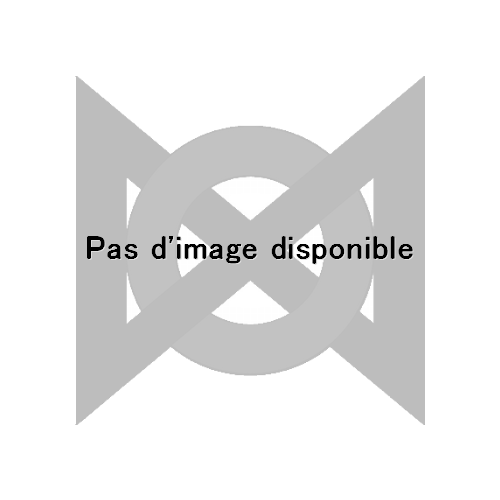
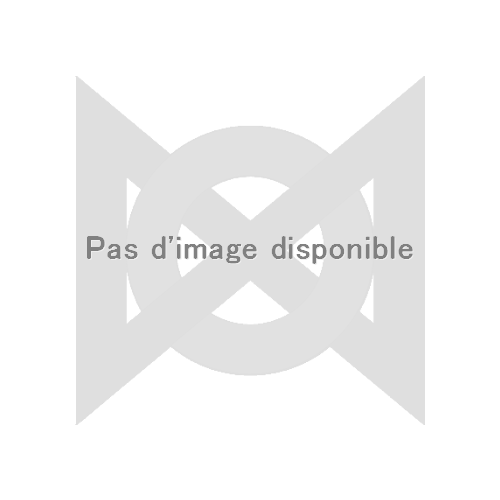
Small improvements in references

diff --git a/os_data/os_productions.js b/os_data/os_productions.js
@@ -9,7 +9,7 @@ const os_productions = [
         cover_url: "images/covers/Antropofago-A_Propensity_for_Violence.png",
         facebook_url: "https://www.facebook.com/antropofago.deathmetal",
         youtube_url: "https://www.youtube.com/watch?v=yK160fu2cXI",
-        year: 2018,
+        release_year: 2018,
         credits: ['Programmation batterie', 'Mixage']
     },
     {
@@ -22,7 +22,7 @@ const os_productions = [
         cover_url: "images/covers/Mysticisme-Rites.jpg",
         facebook_url: "https://www.facebook.com/Mysticismeband",
         youtube_url: "https://www.youtube.com/watch?v=RjrnN1vny2o",
-        year: 2016,
+        release_year: 2016,
         credits: ['Programmation batterie', 'Réamping', 'Mixage', 'Mastering']
     },
     {
@@ -35,7 +35,7 @@ const os_productions = [
         cover_url: "images/covers/Opprobre-Le_Naufrage.jpg",
         facebook_url: "https://www.facebook.com/opprobre",
         youtube_url: "https://www.youtube.com/watch?v=Nn0V-FKm5KY",
-        year: 2017,
+        release_year: 2017,
         credits: ['Programmation batterie', 'Réamping', 'Mixage', 'Mastering']
     },
     {
@@ -48,7 +48,7 @@ const os_productions = [
         cover_url: "images/covers/Devolution-The_Perpetual_Motion.jpg",
         facebook_url: "https://www.facebook.com/devolution.dbm",
         youtube_url: "https://www.youtube.com/watch?v=3mD6pFnvNsA",
-        year: 2015,
+        release_year: 2015,
         credits: ['Programmation batterie', 'Réamping', 'Mixage', 'Mastering']
     },
     {
@@ -61,7 +61,7 @@ const os_productions = [
         cover_url: "",
         facebook_url: "",
         youtube_url: "",
-        year: 2019,
+        release_year: "",
         credits: ['Mastering']
     },
     {
@@ -74,7 +74,7 @@ const os_productions = [
         cover_url: "",
         facebook_url: "",
         youtube_url: "",
-        year: 2019,
+        release_year: "",
         credits: ['Mastering']
     },
     {
@@ -87,7 +87,7 @@ const os_productions = [
         cover_url: "",
         facebook_url: "https://www.facebook.com/EternalHuntBand",
         youtube_url: "",
-        year: 2019,
+        release_year: 2019,
         credits: ['Mixage', 'Mastering']
     }
 ];

diff --git a/os_data/os_productionBrickTemplate.js b/os_data/os_productionBrickTemplate.js
@@ -14,7 +14,7 @@ var os_production_brick_template = `
 				$$name$$
 			</h3> 
 			<p class="item-folio__cat">
-				$$band$$ ($$year$$)
+				$$band$$ ($$release_year$$)
 			</p> 
 		</div> 
 
@@ -52,11 +52,18 @@ function replaceInProdTemplate(production) {
 				final_brick = final_brick.replace(regex, value)	
 			}
 		}		
-    if(key == "cover_url" && value == "") {
-        if(production['logo_url'] != "")
-            final_brick = final_brick.replace("$$cover_url$$", production['logo_url'])
-        else
-            final_brick = final_brick.replace("$$cover_url$$", "images/covers/no_image.png")
+    
+    // Handle null values
+    else {
+        if(key == "cover_url") {
+            if(production['logo_url'] != "")
+                final_brick = final_brick.replace("$$cover_url$$", production['logo_url'])
+            else
+                final_brick = final_brick.replace("$$cover_url$$", "images/covers/no_image.png")
+        }
+        if(key == "release_year") {
+            final_brick = final_brick.replace("($$release_year$$)", "")
+        }
     }
 	})
 	

diff --git a/css/main.css b/css/main.css
@@ -2429,7 +2429,7 @@ html.no-csstransitions .home-content__main {
 .blocks-list .block-item img {
     filter: blur(0px);
     height: 100%;
-    opacity: 0.2;
+    opacity: 0.110;
     position: absolute;
     transition: 0.5s;
     -webkit-transition: 0.5s;
@@ -2658,7 +2658,7 @@ html.no-csstransitions .home-content__main {
     position: absolute;
     left: 0;
     bottom: 0;
-    padding: 0 3rem;
+    padding: 0.5rem 1rem;
     -webkit-transform: translate3d(0, -100%, 0);
     -ms-transform: translate3d(0, -100%, 0);
     transform: translate3d(0, -100%, 0);

diff --git a/os_data/os_logoBrickTemplate.js b/os_data/os_logoBrickTemplate.js
@@ -7,7 +7,6 @@ function replaceInLogoTemplate(production) {
         return ""
     }
     final_brick = os_logo_brick_template
-    console.log(production.logo_url)
     final_brick = final_brick.replace("$$logo_url$$", production.logo_url)
     return final_brick
 }
